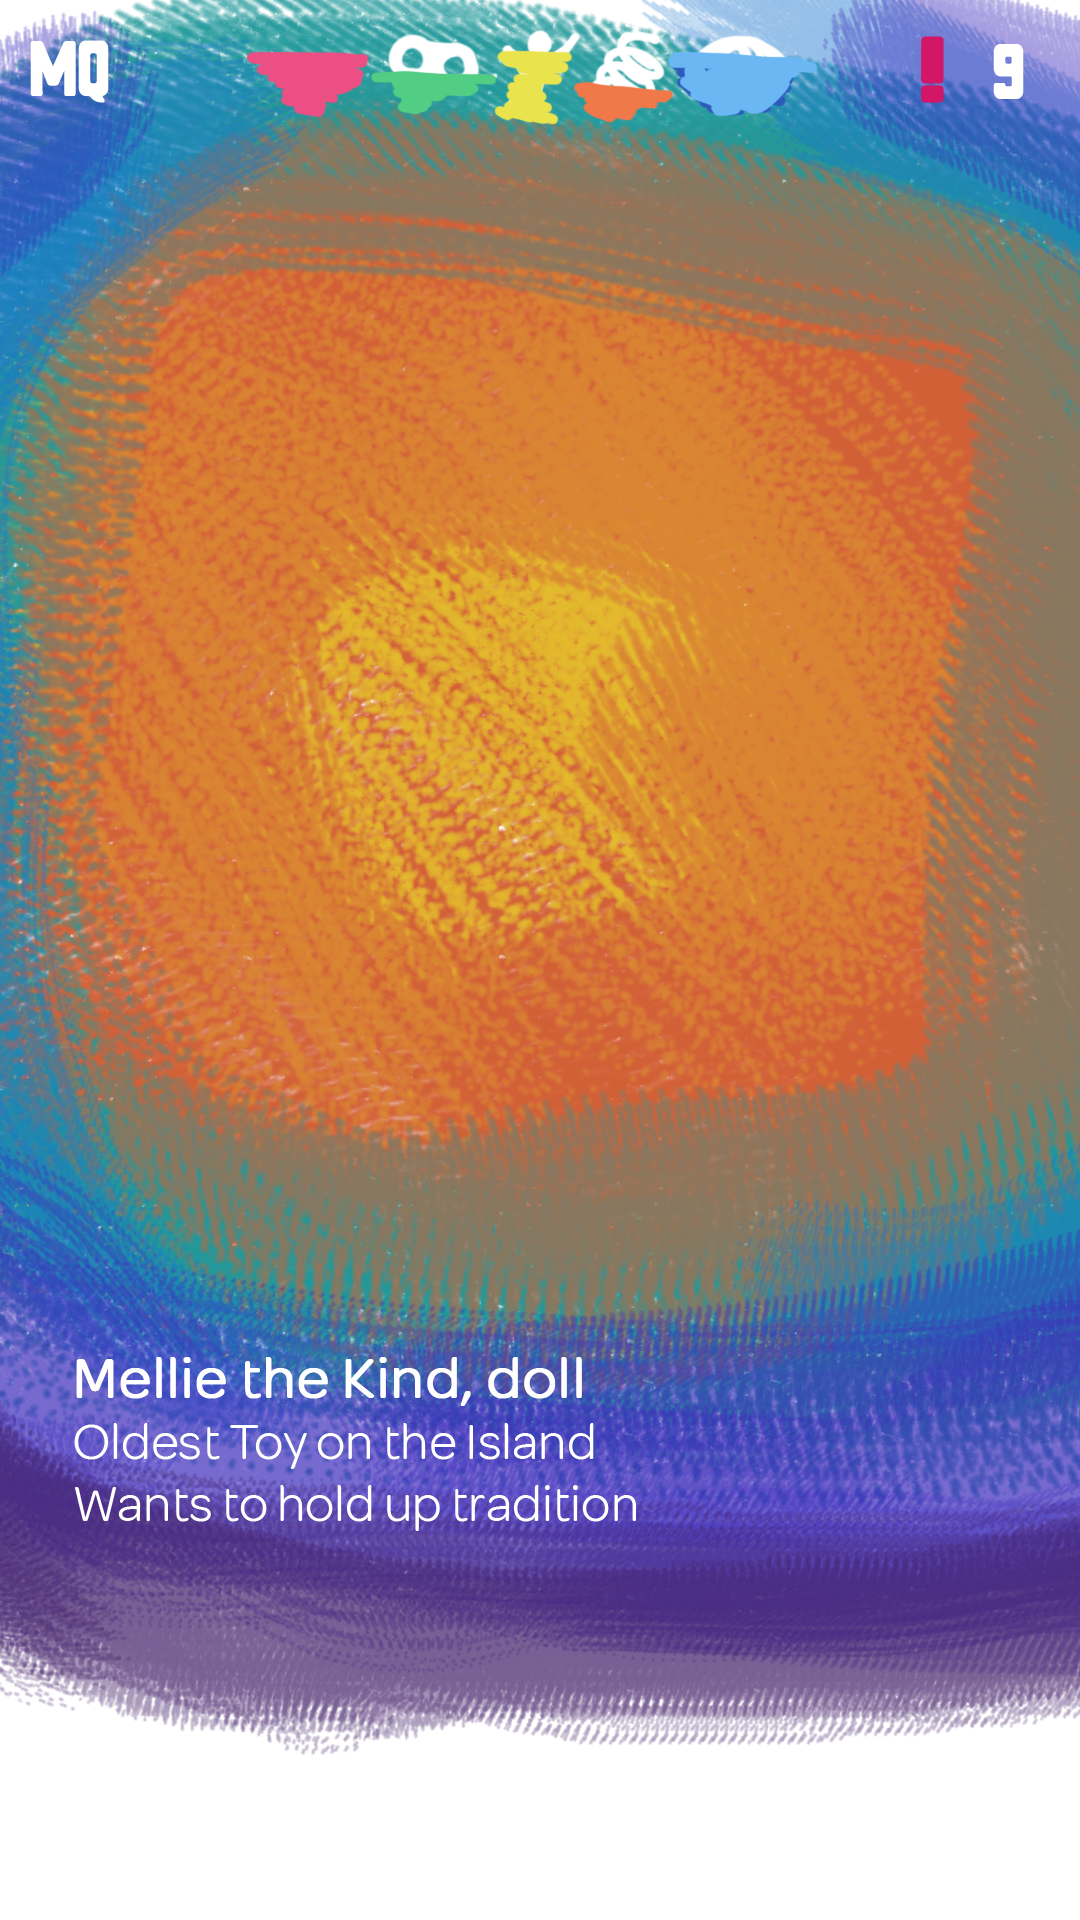
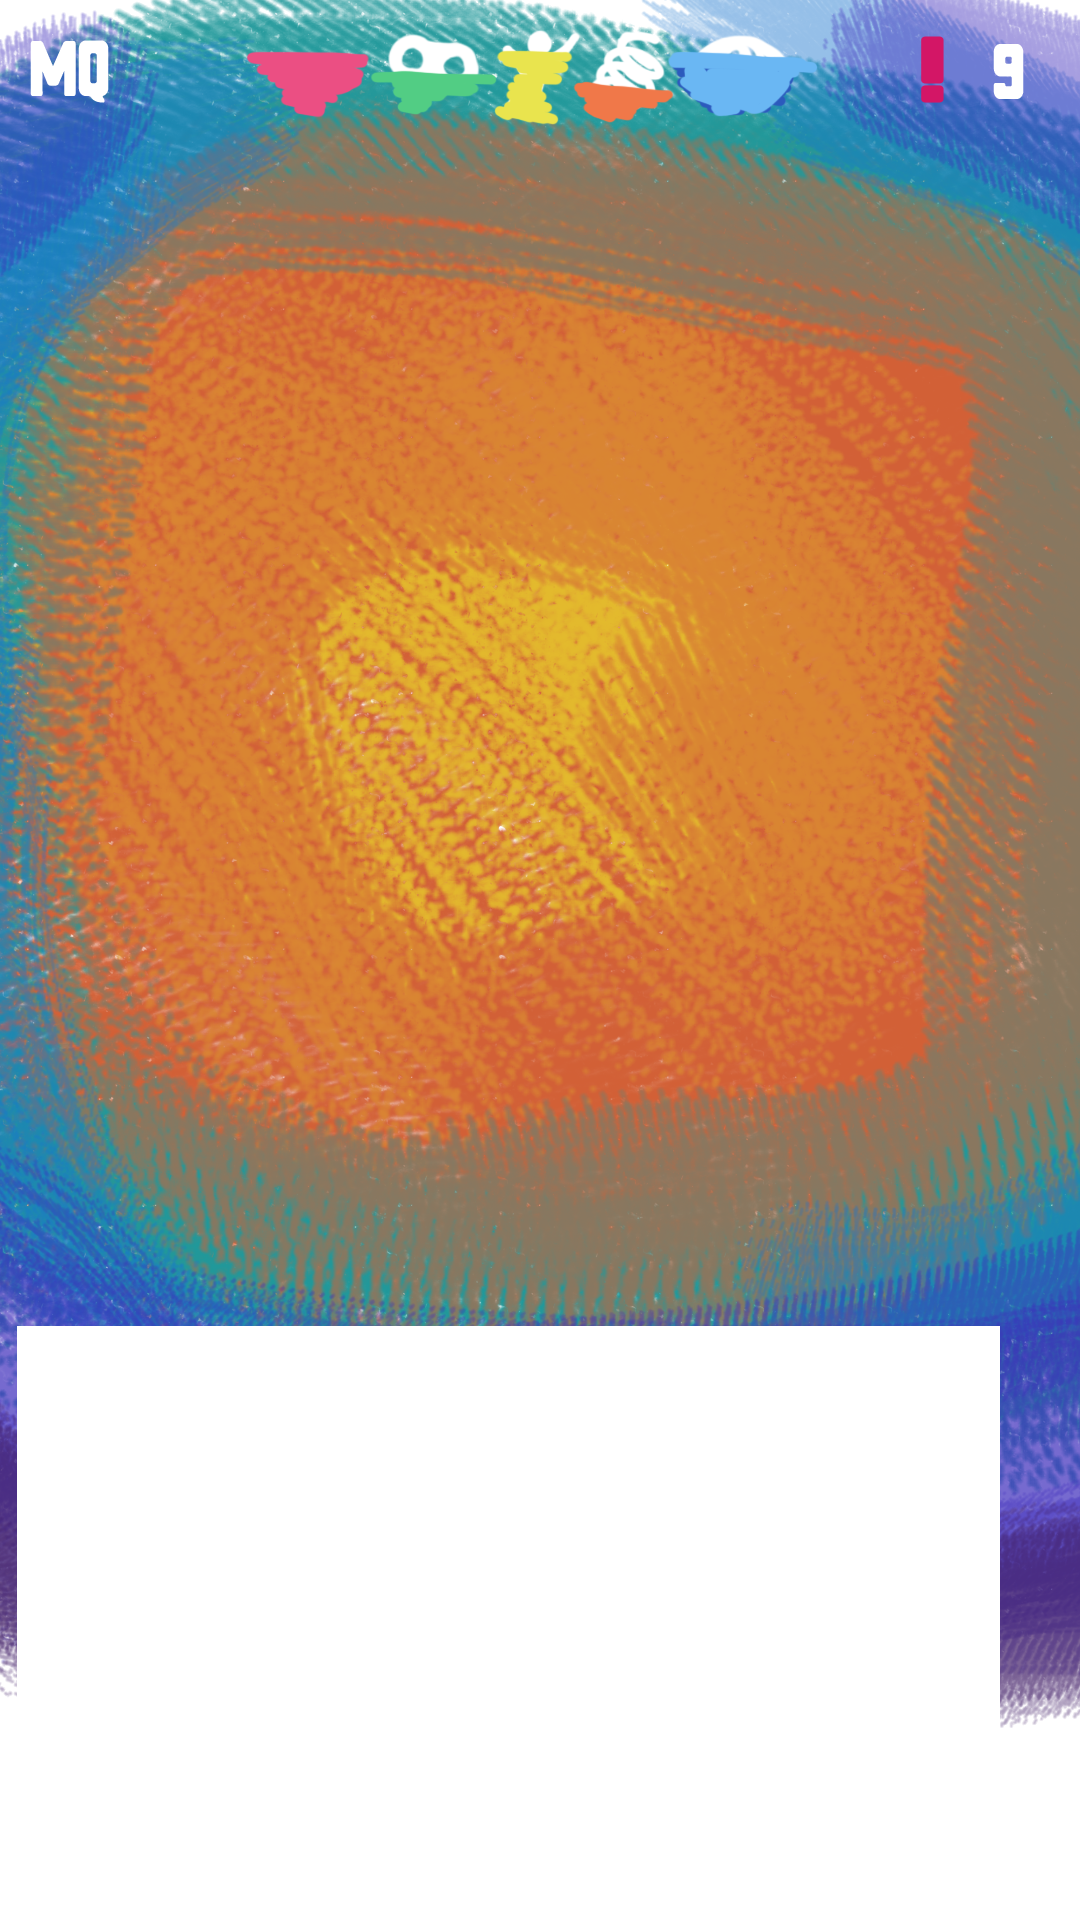
Checking in rough functional of fungus system using the content.

Changed region(s): [[0.0, 0.6875, 0.9472, 0.9375]]

diff --git a/Assets/scripts/GameState.cs b/Assets/scripts/GameState.cs
@@ -8,22 +8,21 @@ public class GameState : MonoBehaviour
     [SerializeField] private TextAsset content;
     [SerializeField] private Flowchart flowchart;
     [SerializeField] private SayDialog sayDialog;
-    
+    [SerializeField] private Character character;
+
     private CharacterModel[] characterModels;
     private Character[] characters;
     private int currentIndex = 0;
 
     private void Awake()
     {
-        characters = GetComponents<Character>();
-        
         var lines = content.text.Split('\n');
         characterModels = new CharacterModel[lines.Length - 1];
 
         for (var i = 1; i < lines.Length; ++i)
         {
             var data = lines[i].Split('\t');
-            var characterModel = characterModels[i-1] = new CharacterModel();
+            var characterModel = characterModels[i - 1] = new CharacterModel();
             characterModel.TriggerCondition = data[0];
             characterModel.CharacterId = data[1];
             characterModel.CharacterName = data[2];
@@ -38,8 +37,6 @@ public class GameState : MonoBehaviour
             characterModel.IgnoreEffect = ParseChoiceEffect(data, ref index);
             characterModel.RecycleEffect = ParseChoiceEffect(data, ref index);
         }
-
-        Debug.Log(JsonUtility.ToJson(characterModels));
 
         SetNextCharacter();
     }
@@ -61,5 +58,12 @@ public class GameState : MonoBehaviour
         {
             currentIndex = 0;
         }
+
+        var characterModel = characterModels[currentIndex];
+
+        var dialogShort = characterModel.QuandryDialog.Substring(0, 200);
+
+        sayDialog.SetCharacter(character);
+        sayDialog.Say(dialogShort, true, false, false, false, false, null, SetNextCharacter);
     }
 }
